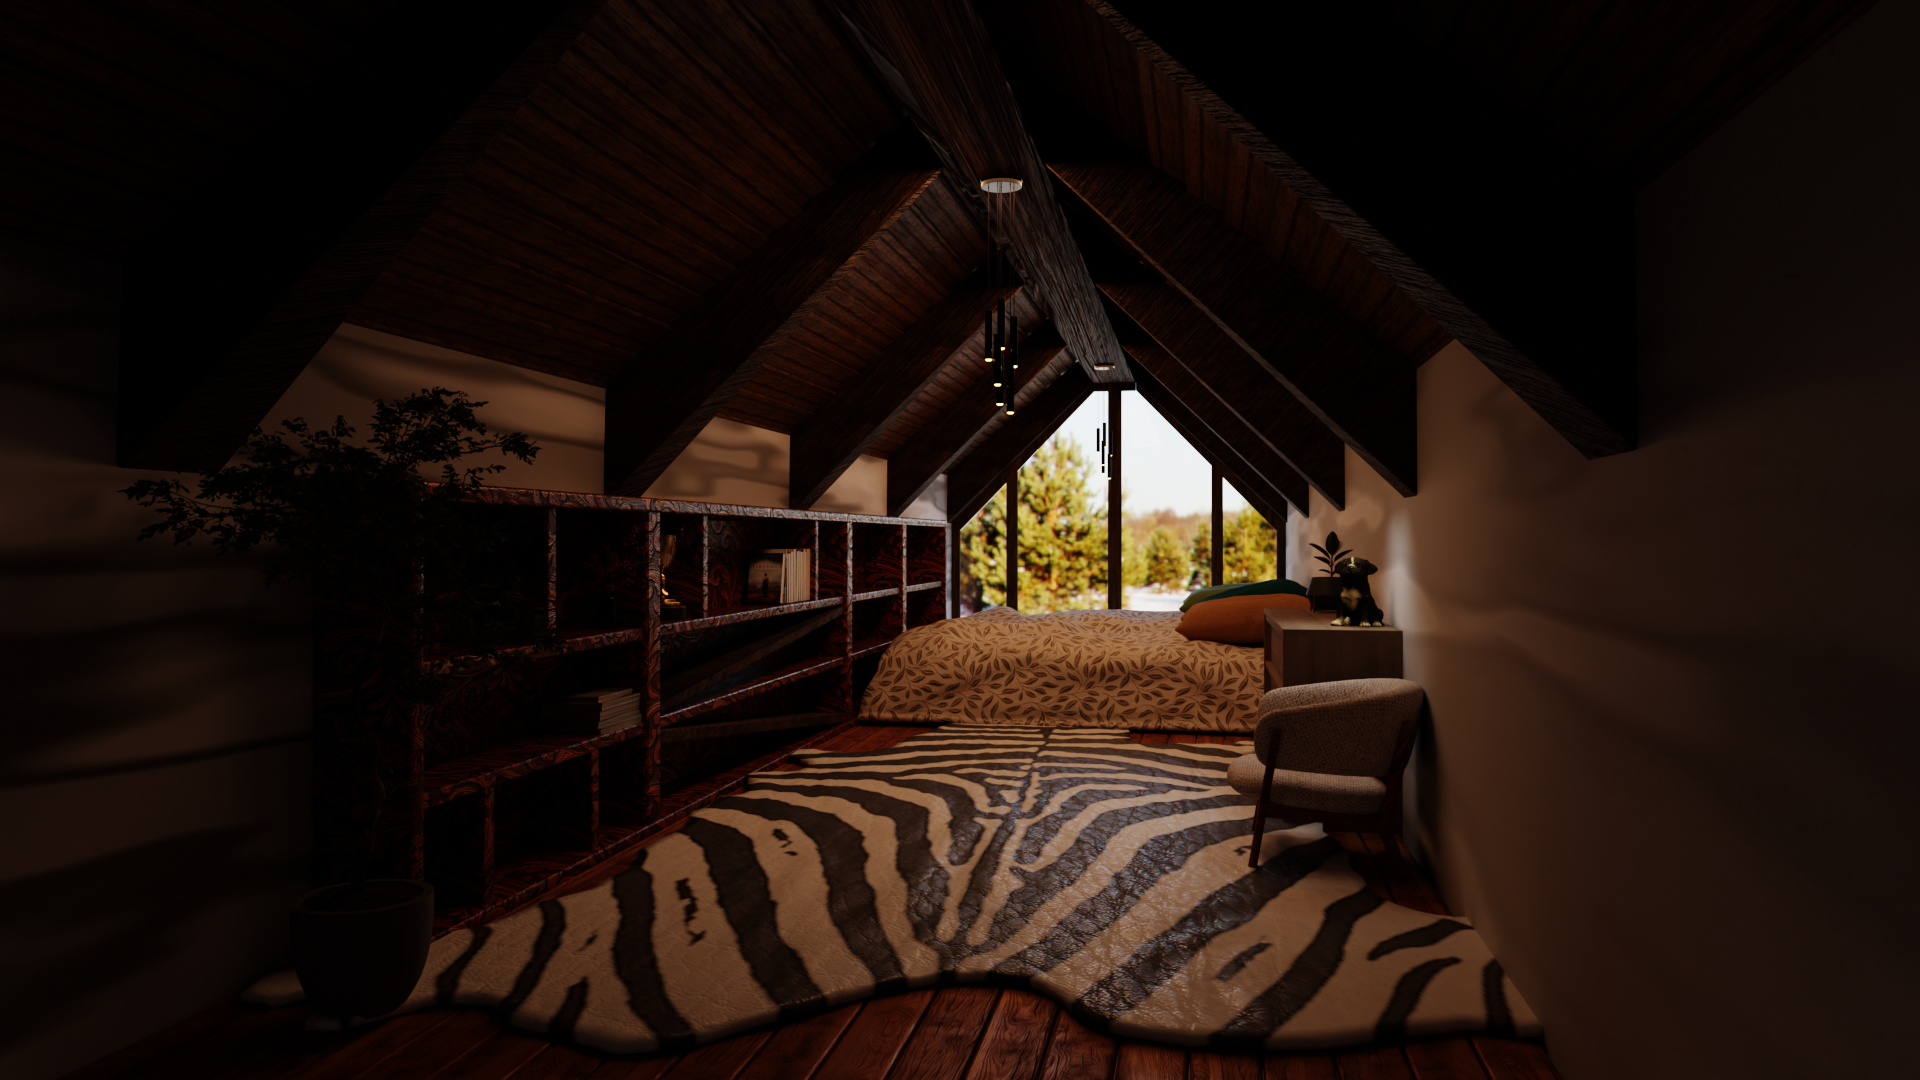
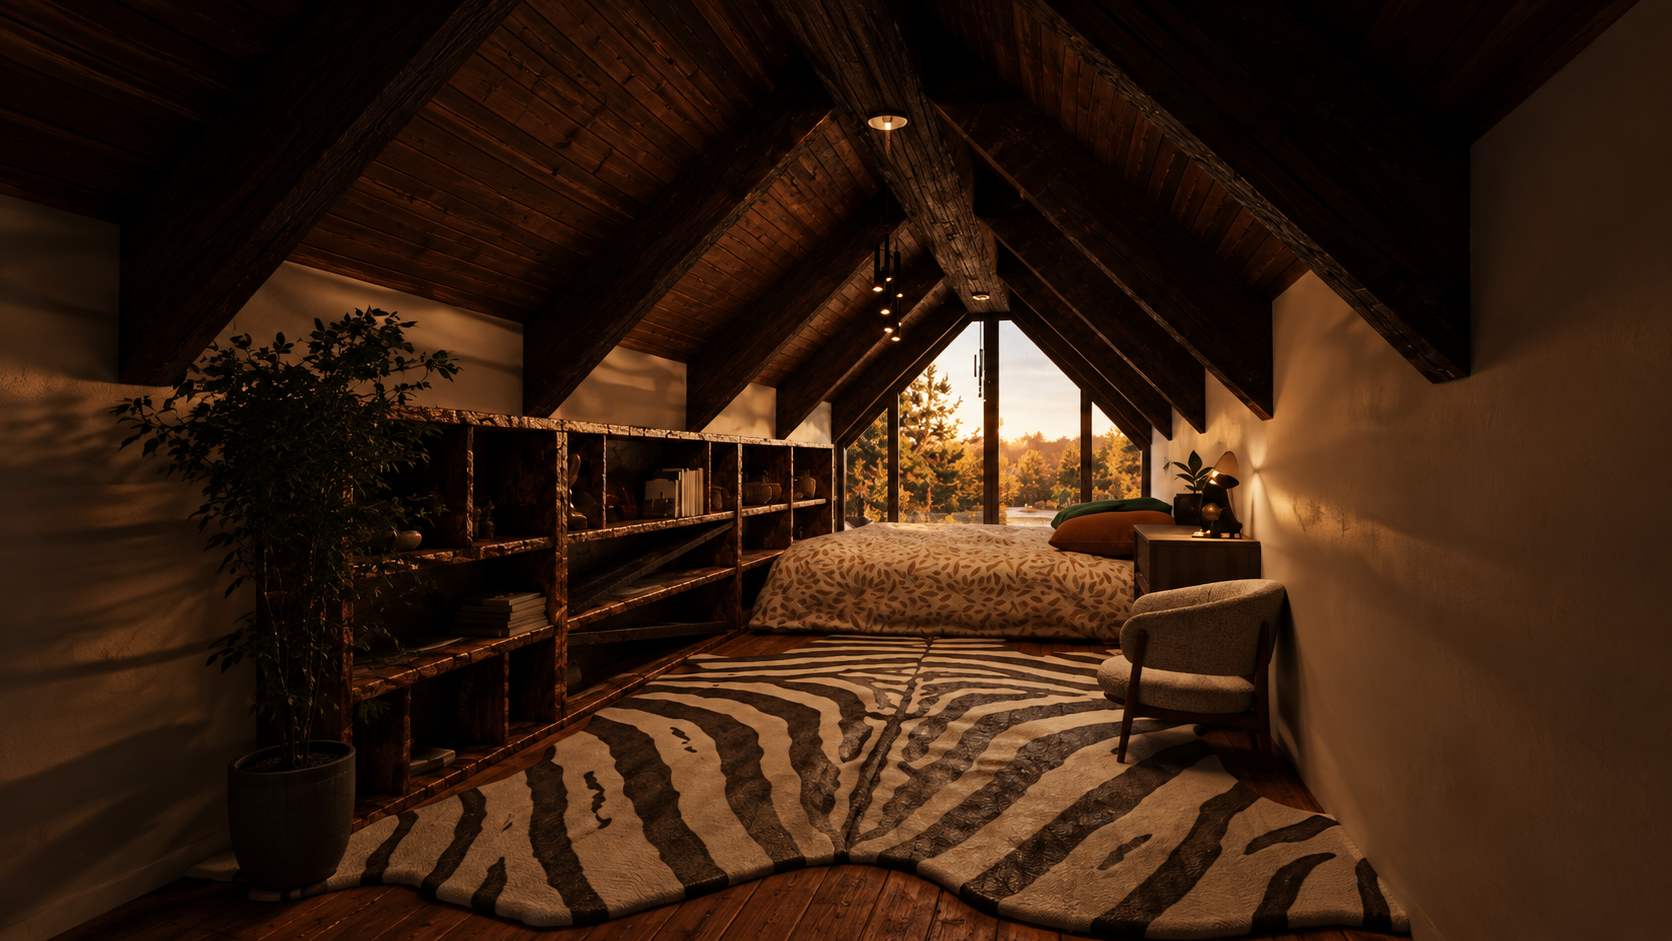
Update room-01 image with fixed walls and lighting

diff --git a/index.html b/index.html
@@ -113,7 +113,7 @@
             <div class="projects-grid">
                 <article class="portfolio-item project-card" data-category="rooms">
                     <div class="project-card__image project-card__image--two">
-                        <img src="./rooms/room-01.png?v=20260924" alt="Деревянная мансарда в уютном свете" loading="lazy" />
+                        <img src="./rooms/room-01.png?v=20260924-4" alt="Деревянная мансарда в уютном свете" loading="lazy" />
                         <div class="project-card__overlay">
                             <span>Комнаты</span>
                             <h3>Мансарда теплого света</h3>
